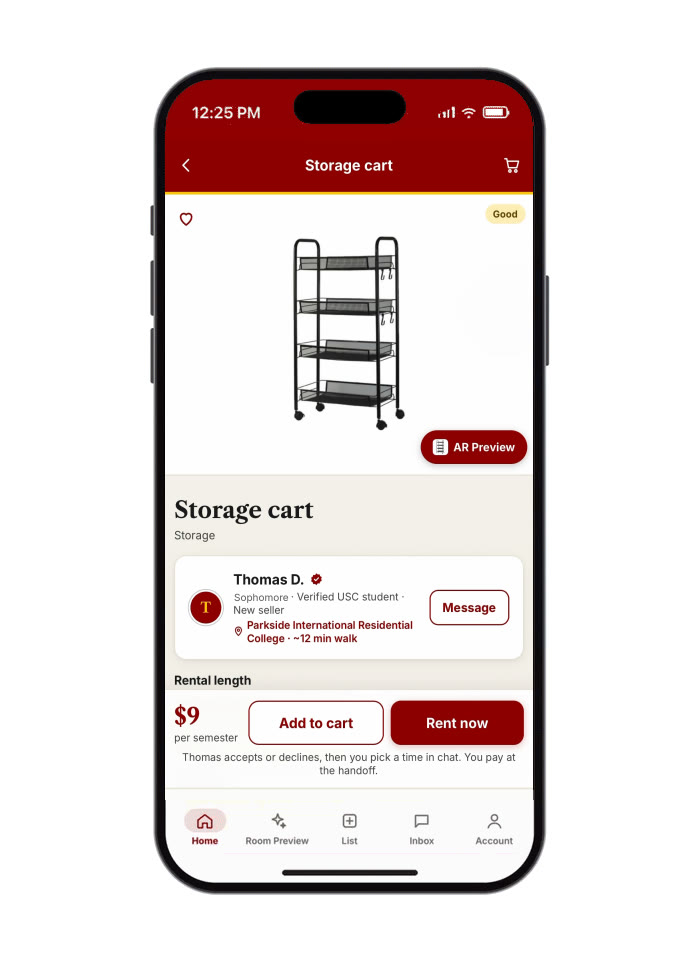
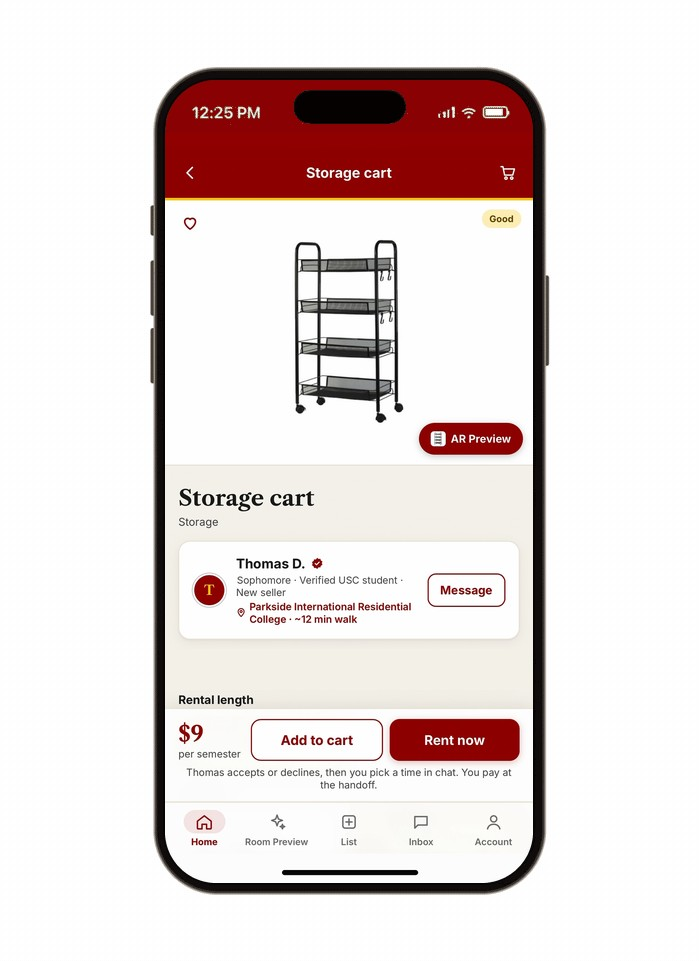
Replace TroShare AR demo with new recording

diff --git a/index.html b/index.html
@@ -427,7 +427,7 @@
                 <p>AR Preview places a life-size 3D model of the item in the student’s room through their phone camera, so they can check size and fit before committing to a rental.</p>
               </div>
               <figure class="fold-media staso-media troshare-phone">
-                <img class="scroll-gif" src="assets/troshare-ar-poster.jpg?v=11" data-gif="assets/troshare-ar.gif?v=11" alt="AR Preview placing a storage cart in a dorm room" />
+                <img class="scroll-gif" src="assets/troshare-ar-poster.jpg?v=12" data-gif="assets/troshare-ar.gif?v=12" alt="AR Preview placing a storage cart in a dorm room" />
               </figure>
             </section>
 
